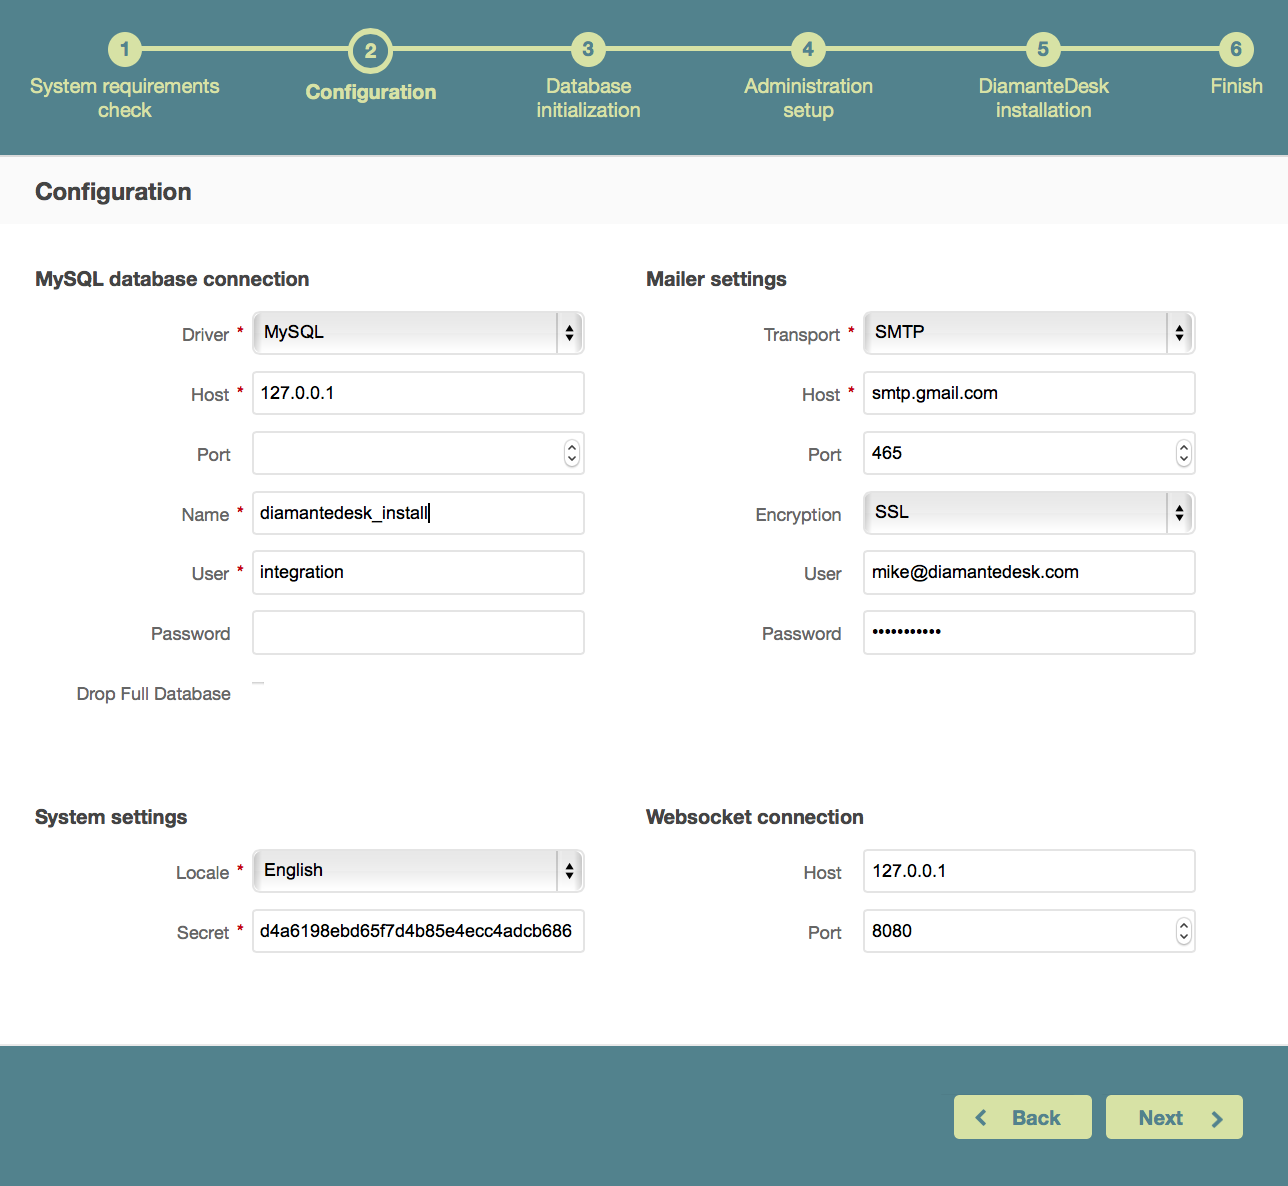
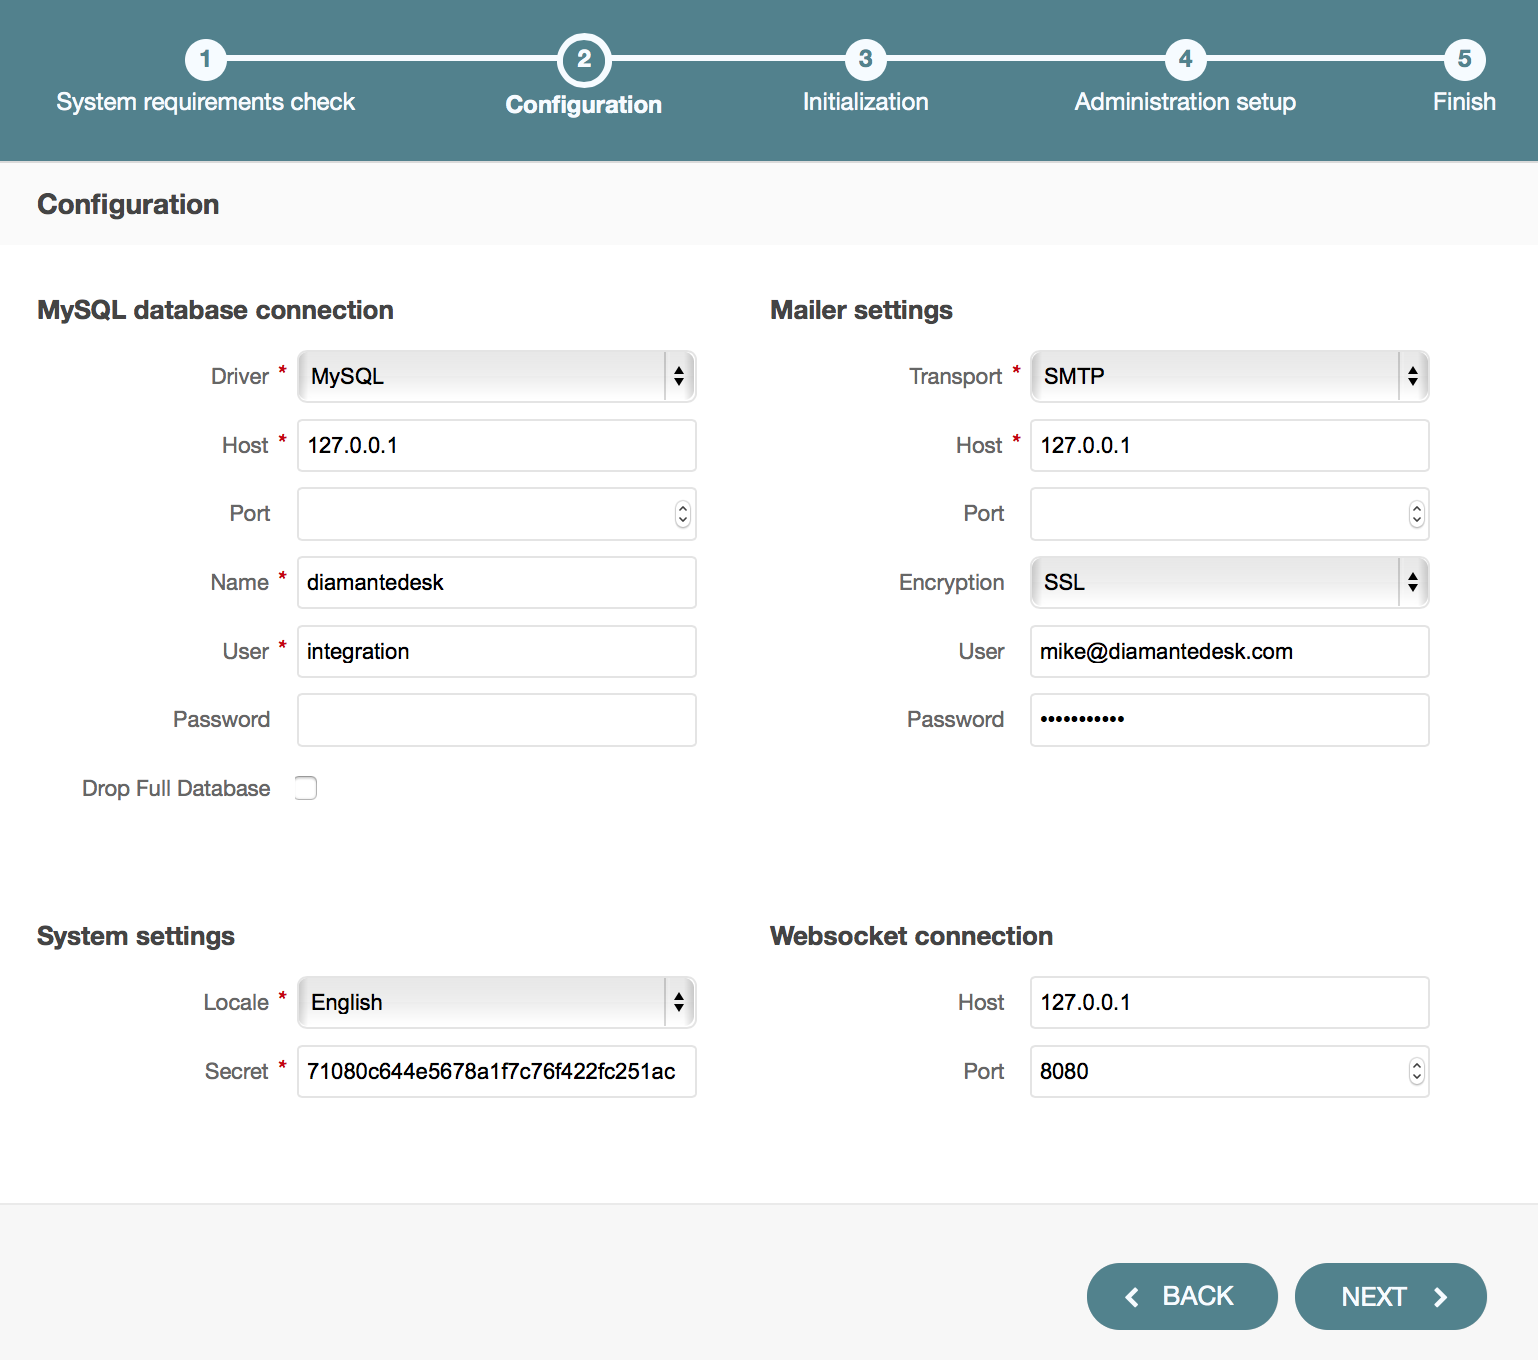
DIAM-952 - User Management, DIAM-917 - Contributing, DIAM-938 - Embedded Forms (partially), minor changes throughout documentation

diff --git a/docs/installation-guide/installation.md b/docs/installation-guide/installation.md
@@ -14,11 +14,9 @@ You can also check whether your system meets all the requirements from the comma
 
 To install DiamanteDesk you also need to setup MySQL database server with an empty database that will be used later on.
 
-DiamanteDesk uses **Composer** to manage package dependencies. You can download it from https://getcomposer.org/download/ or via the following command in the terminal:
-
-    curl -s https://getcomposer.org/installer | php
+DiamanteDesk uses **Composer** to manage package dependencies. Use this [link](https://getcomposer.org/download/) to download it. All the following examples are be based on the assumption that the composer have been installed globally.
     
-##Web Server configuration
+###Web Server configuration
 
 DiamanteDesk application was developed on a basis of the Symfony standard application so you can learn more about web server configuration recommendations [here](http://symfony.com/doc/2.3/cookbook/configuration/web_server_configuration.html).
 
@@ -28,25 +26,27 @@ DiamanteDesk application was developed on a basis of the Symfony standard applic
 
 Download DiamanteDesk application from [GitHub](https://github.com/eltrino/diamantedesk-application/releases).
 
-Clone the [GitHub repository](https://github.com/eltrino/diamantedesk-application#usage) to get a source code and checkout the required version of an application. Use the following command:
+Clone the [GitHub repository](https://github.com/eltrino/diamantedesk-application#usage) to get a source code and checkout the latest developed version of an application. Use the following command:
 
     git clone https://github.com/eltrino/diamantedesk-application
 
-Checkout the latest version of the project:
+Checkout the latest stable version of the project:
 
      git clone -b 1.0 https://github.com/eltrino/diamantedesk-application
      
-Download the application with the composer package manager using the following command:
+Also, download the application with the composer package manager using the following command:
 
-    composer create-project diamante/desk-application
+    composer create-project diamante/desk-application:1.0
     
+### Installing required libraries
+
 Install the dependencies with the composer:
 
     composer install
 
-##Application Installation
+### Application Installation
 
-###Installation Using a Console
+######Installation Using a Console
 
 To run the installation of DiamanteDesk in a console mode, use the following command:
 
@@ -54,13 +54,13 @@ To run the installation of DiamanteDesk in a console mode, use the following com
      
 Additional commands may be required. The system will guide you through the process with questions and command options.
 
-If the system configuration does not meet the requirements, the _install_ command provides corresponding messages. In case there are any, fix them and run the command again.
+If the system configuration does not meet the requirements, the _install_ command provides corresponding messages. In case there are any issues, fix them and run the command again.
 
-###Installation Using Web Wizard
+######Installation Using Web Wizard
 
-To start installation through a web wizard, follow the link below:
+To install the application through a web wizard, follow the link below:
 
-    http://integration.eltrino.com:8090/diamantedesk-install/web/install.php
+    http://localhost/install.php
     
 When DiamanteDesk installation screen opens, click **Begin Installation**. 
 
@@ -71,22 +71,23 @@ In case there are any issues, fix them and refresh the page. After all system co
 ![System Requirements](img/web_sys_req.png)
 
 The next step of installation process is configuring the application. Provide the data for **MySQL database connection**, **Mailer settings**, **System sttings** and **Websocket connection** if the fields are not filled out automatically.
+_Note:_ If the application is installed for the first time, leave the **Drop Full Database** check box clear, if you reinstall the application, select this check box.
 
 ![Configuration](img/web_config.png)
 
 Click **Next** and the installer will initialize your database. The list of tasks and the progress on their performance will be shown.
 
-![Database](img/web_database.png)
+![Database](img/web_initialization.png)
 
-After you move on to the next step, you should provide such administrative information as company name, link to the application and administrative credentials. Make sure that **Load Sample Data** check box is empty.
+After you move on to the next step, you should provide such administrative information as company name, link to the application and administrative credentials.
 
 ![Administration](img/web_administration.png)
 
-After you click **Install**, the installer finishes setup. The list of tasks and the progress on their performance will be shown.
-
-![Installation](img/web_installation.png)
+Click **Install** to finish the setup process. 
  
-DiamanteDesk application is successfully installed after the status of all tasks turns to **Done**.
+After the DiamanteDesk application is successfully installed the following message is displayed.
+
+![Finish](img/web_finish.png)
 
 ##Bundles Installation
 
@@ -97,3 +98,5 @@ Development in progress.
 Development in progress.
 
 ##Docker Prebuilt Image 
+
+To learn more on how to use Docker image, please follow this [link](https://github.com/eltrino/diamantedesk-docker).

diff --git a/docs/user-guide/user-management.md b/docs/user-guide/user-management.md
@@ -1,0 +1,71 @@
+#User Management
+
+**User Management** serves to create new users in DiamanteDesk or to review/edit information about the existing ones. Each user has a certain role, access settings and belongs to one of the existing groups, defining his default permissions in the system.
+
+![User Management](img/user_management.png)
+
+To review the list of all users in the system head over to _System > User Management > Users_:
+
+![User Management](img/all_users.png)
+
+## Create User
+
+To create a new user profile in the DiamanteDesk system, head over to _System > User Management > Users_ and click the **Create User** button at the right top corner of the screen or go directly to _System > User Management > Create User_.
+
+![Create User](img/user_new_general.png)
+
+After you get to the **Create User** screen, fill out all the required fields in five sections, that is **General**, **Additional**, **Groups and Roles**, **Access Settings**, **Email synchronization settings**.
+
+* The **Owner** field is automatically filled with **Main** value by default.
+* Select the **Status** of an account - it can be either **Active** or **Inactive**.
+* Create a **Username** and **Password** that will be used by a newly created user to log in. **Re-Enter** the password in the following filed to make sure you typed it in correctly.
+* Enter a user **Name Prefix**, if required (Mr, Ms, etc.)
+* **First Name, Middle Name, Last Name**
+* Enter a user **Name Suffix**, if any (for example, Jr., Sr., PMP, etc.)
+* Select the **Birthday** from the drop-down calendar in the corresponding field.
+* Click the **Avatar** to select a profile picture from your local machine.
+* Enter the user's **Primary Email** in the corresponding field. This email is going to be used for email notifications and password recovery. Click **Add Another Email** in the **Emails** field to add additional email in case the primary one is not available for any reason.
+* **Email Signature**
+* **Phone**
+* **Tags.** Tagging functionality is identical throughout the system. To learn more about tagging, follow this [link](tagging.md).
+
+Provide the **Title** (position) of a newly created user in the section for **Additional** information.
+
+![Create User](img/user_new_title.png)
+
+Select the **Groups** and **Roles** the newly created user will belong to. More than one group or role may be selected for one user.
+
+![Create User](img/user_new_groups_roles.png)
+
+Set **Access Settings** !!!!!!!!!!!!
+
+![Create User](img/user_new_access.png)
+
+### Edit User Account
+
+To edit user account in the DiamnateDesk system:
+
+1. Go to the list of all users in the system at _System > User Management > Users_.
+2. Select the user account that shall be changed.
+3. Perform required the changes.
+4. Click **Save and Close** or **Save** at the right top corner of the screen.
+
+## User Roles
+
+User role determines the permissions of a person authorized, meaning what actions a user is allowed to perform. To look through the list of available User Groups head over to _System > User Management > Roles_.
+
+## User Groups
+
+A user group is a collection of user accounts having the same core responsibilities (for example, Administrators, Marketing, Sales). To look through the list of available User Groups head over to _System > User Management > Groups_.
+
+### Create a New User Group
+
+1. Go to _System > User Management > Groups_.
+2. Click **Create Group** at the right top corner of the screen. The **Create Group** screen opens.
+![Create Group](img/create_group.png)
+3. The **Owner** field is automatically filled with **Main** value by default.
+4. Provide the general name of the group in the **Name** field.
+5. Choose the members belonging to this group by selecting the check boxes in the corresponding lines.
+6. Click **Save** or **Save and Close** to proceed.
+
+_Note:_ Any user can belong to more than one group.

diff --git a/docs/developer-guide/contributing.md b/docs/developer-guide/contributing.md
@@ -1,0 +1,40 @@
+#Contributing
+
+The DiamanteDesk development team accepts contributions to code and documentation from the community. If you have found a bug, don't hesitate to let us know about it! We do our best to make DiamanteDesk as easy-to-use and as helpful as possible, so we are thankful for any effort to enhance application's functionality.
+
+## Contributing Code
+
+When creating DiamanteDesk application and for other projects we work on, we prefer to stick to certain PHP coding standards, described in [PSR-0](http://www.php-fig.org/psr/psr-0/), [PSR-1](http://www.php-fig.org/psr/psr-1/), [PSR-2](http://www.php-fig.org/psr/psr-2/) and [PSR-4](http://www.php-fig.org/psr/psr-4/) documentation. This strategy ensures structure quality and easier software maintenance. Therefore, when contributing to DiamanteDesk, please make sure to follow these coding standards.
+
+Any contribution can be made as an **Issue** or **Pull Request** in the corresponding section of the [repository on GitHub](https://github.com/eltrino).
+
+DiamanteDesk functionality is separated into separate **bundles**, such as ApiBindle, FrontBundle, EmbeddedFormBundle, EmailProcessingBundle, etc. When contributing to code or reporting an issue, please select the bundle responsible for specific functionality.
+
+### Report a Bug
+
+###### If you found a bug:
+
+* Look through the corresponding section of DiamanteDesk documentation to make sure that a certain feature works incorrectly.
+* Find the relevant bundle on [GitHub](https://github.com/eltrino) and check whether the same issue hasn't been already opened.
+
+###### To report a bug:
+
+* Create a new issue. Follow this [link](https://help.github.com/articles/creating-an-issue/) for detailed instructions on how to create issues on GitHub.
+* Provide a short precise description of the issue in the title.
+* In case there are UI issues, provide screenshots.
+* Describe the steps to reproduce this bug using a recent version of the software.
+* Include the information about your environment.
+
+### Code Changes
+
+To change application code or submit a patch, fork the project on GitHub, perform the required changes, and log a pull request to get the changes pulled back into DiamanteDesk repository. To learn more about pull requests on GitHub, follow this [link](https://help.github.com/articles/using-pull-requests/).
+
+_Note:_ When committing changes in the code, add detailed messages on what exactly has been changed.
+
+## Contributing Documentation
+
+DiamanteDesk documentation uses [Markdown](https://guides.github.com/features/mastering-markdown/) syntax and [MkDocs](http://www.mkdocs.org/) for generating the documentation in the HTML format.
+
+The application documentation, as well as its code, is hosted on [Github](https://github.com/eltrino/diamantedesk-documentation). You need a GitHub user account to contribute to the documentation.
+
+When editing or contributing to documentation, you can either create an **Issue** on GitHub, describe it and let us know what exactly shall be changed, or you can make changes independently in the same way, described in the **Code Changes** section.

diff --git a/docs/user-guide/channels/channels.md b/docs/user-guide/channels/channels.md
@@ -1,13 +1,14 @@
 #Channels
 
-DiamanteDesk is a customer support system which extends basic CRM functionality.
+DiamanteDesk is a customer support system which functions either as a standalone application, extends CRM functionality or can be integrated with a number of content management systems.
 
 This software is designed to organize all incoming customer requests from all sources in a single place to ensure quick reply and reasonable solution to a problem, if any.
 
-Every user of a service supported by the DiamanteDesk system will have 3 channels to contact the Help Desk team:
+Every user of a service supported by the DiamanteDesk system will have 4 available channels to contact the Help Desk team:
 
 * by creating a request through a **web portal**;
+* via **embedded forms** on websites, online stores, blogs, etc.;
 * by sending an **email notification**;
 * or via a **phone call**.
 
-Currently, first two options are available. Follow the links to learn more about submitting a request through a [**web portal**](web-portal.md) or about [**email processing**](email-processing.md) feature.
+Currently, first three options are available. Follow the links to learn more about submitting a request through a [**web portal**](portal.md), [**embedded forms**](embedded-form.md) or about [**email processing**](email-processing.md) feature.

diff --git a/docs/user-guide/channels/portal.md b/docs/user-guide/channels/portal.md
@@ -1,6 +1,6 @@
 #Portal
 
-When a customer attempts to leave a request or report an issue through a web site supported by DiamanteDesk, the system redirects this user to a request module at clientwebsite.com/web/app.php/portal/. A user should register or provide log in details in order to create a ticket.
+When a customer attempts to leave a request or report an issue through a web site supported by DiamanteDesk, the system redirects this user to a request module at example.com/web/app.php/portal/. A user should register or provide log in details in order to create a ticket.
  
 ![Login Page](img/Login.jpg)
 
@@ -59,7 +59,7 @@ To create a new request, a user shall add a ticket by completing the following s
 6. Once you provided all the necessary information, click **Submit**.
 
 
-## Web Portal Configuration
+## Portal Configuration
 
 Tickets can be also created without the required registration. To configure this option, go to _System > Configuration_. On the **System Configuaration** pane select the **DiamanteDesk** menu and **Channels** tab.
 

diff --git a/docs/user-guide/channels/email-processing.md b/docs/user-guide/channels/email-processing.md
@@ -1,6 +1,6 @@
 # Email Processing
 
-DiamanteDesk supports 3 possible options of contacting a service Help Desk team in order to create a new ticket and make a request or report an issue. Any user can do it through a [Web Portal](web-portal.md), over the phone call or by sending an email to the support address.
+DiamanteDesk supports 4 possible options of contacting a service Help Desk team in order to create a new ticket and make a request or report an issue. Any user can do it through a [Portal](portal.md) or [Embedded Form](embedded-form.md), over the phone call or by sending an email to the support address.
 
 All the emails that get to the support email address are automatically retrieved by the DiamanteDesk system in order to create a  separate ticket out of each received letter. To make sure that all customer requests sent to the service support email are automatically converted into tickets by the system, the email processing feature shall be configured at  _System > Configuration_.
 

diff --git a/docs/user-guide/channels/embedded-form.md b/docs/user-guide/channels/embedded-form.md
@@ -1,0 +1,7 @@
+#Embedded Form
+
+DiamanteDesk is a simple tool designed to improve user experience for each of your present and future customers. 
+Сustomers are mostly happy when your service meets their expectations, is easy-to-use and does not distract them from the main task it was made for. But in complex systems something may always go wrong and a user should have various options to contact your help desk team and let them know what should be fixed or changed. DiamanteDesk system offers 4 options to do that.
+
+Some of our Clients prefer to embed a ticketing form into their website.
+

diff --git a/docs/user-guide/branches.md b/docs/user-guide/branches.md
@@ -18,7 +18,7 @@ Branch key is automatically generated from the branch name when a new branch is 
 
 **Branch name** and **Branch Key** filters are set to **All** values by default. To filter the branches according to a certain branch name or key, click the down arrow in the corresponding filed and enter the required name or key. To refresh the results, click **Refresh**. To clear all filters, click **Reset**.
 
-## Create a New Branch:
+## Create a New Branch
 
 1. Go to _Desk > Branches_.
 2. Click **Create** at the right top corner of the screen. **Create Branches** screen opens.

diff --git a/docs/integration/api-credentials.md b/docs/integration/api-credentials.md
@@ -7,9 +7,8 @@ DiamanteDesk API integration serves to create individual customer support system
 To connect a content management system and the Client's CRM, API credentials shall be provided.
 
 **Getting API Credentials**
-(let's take OroCRM as an example):
 
-1. Log in to **OroCRM**.
+1. Log in to **DiamanteDesk Admin Panel**.
 2. On the navigation pane select **System > User Management > Users**.
 ![Users](img/users.png)
 3. **Users** screen opens. Select the required user from the list and double click his name to open his profile.
